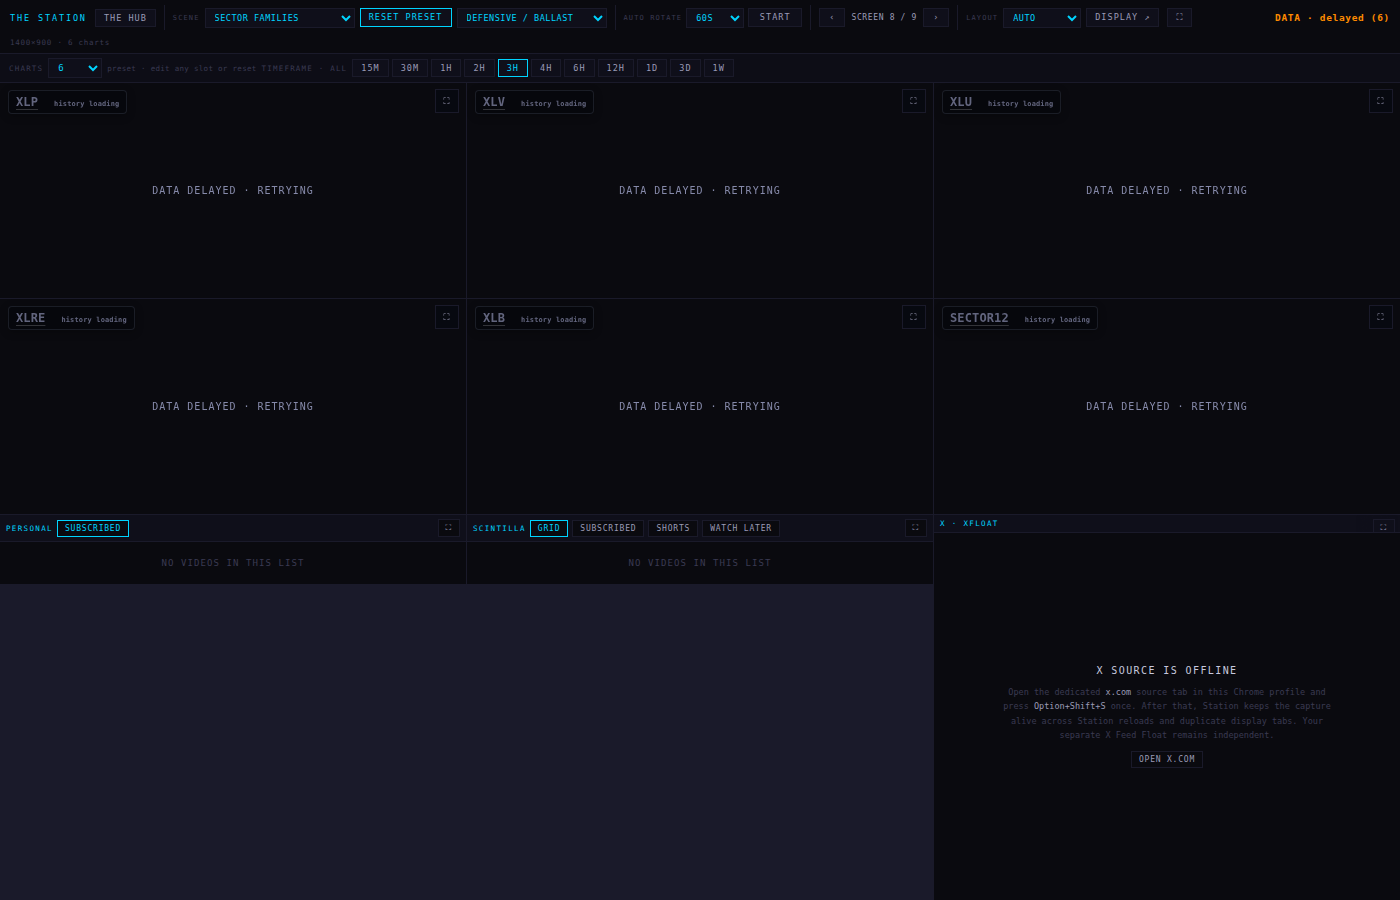
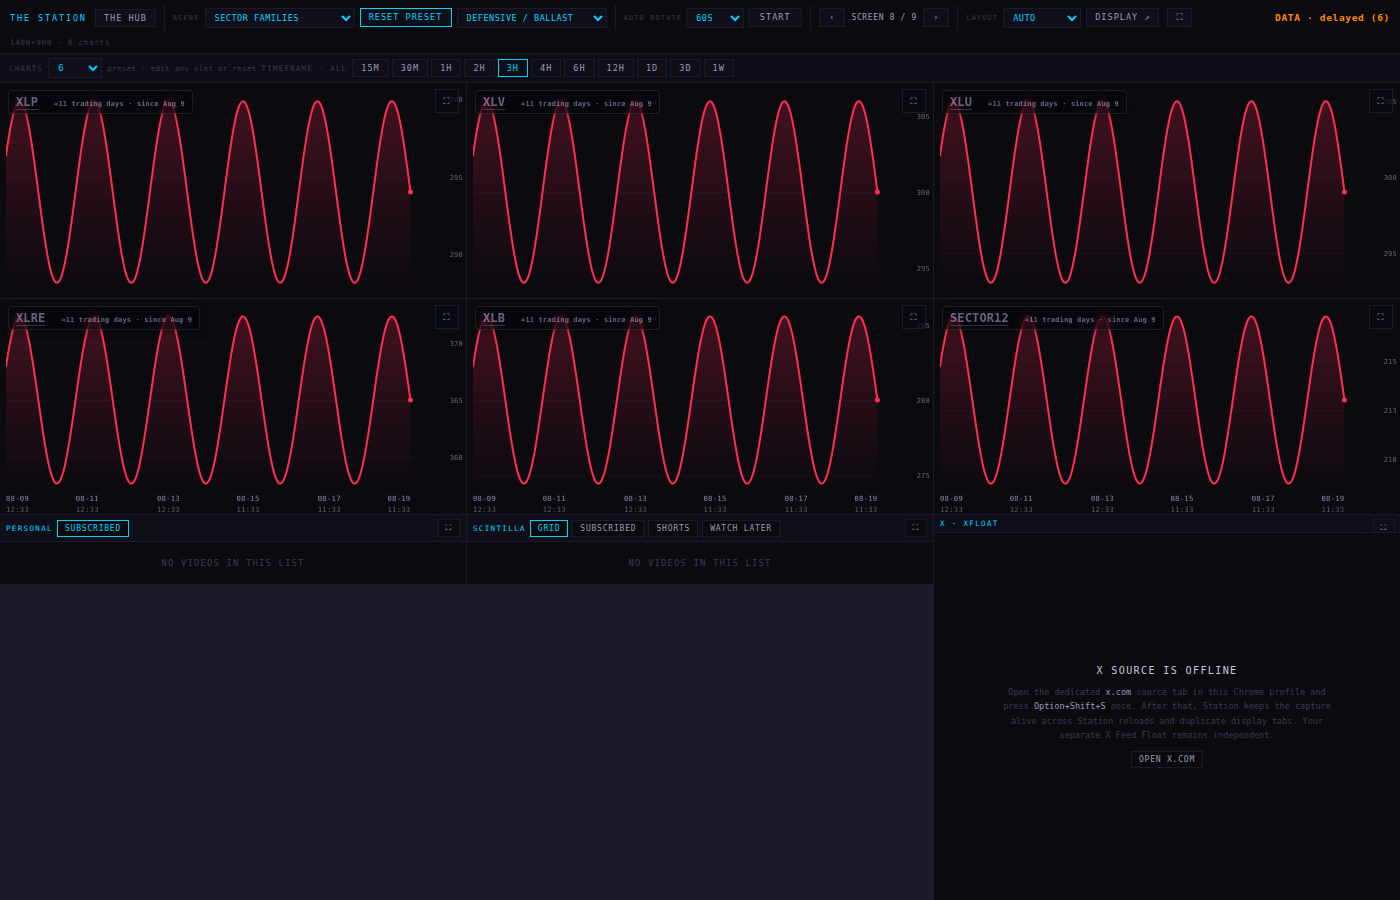
Ticks move the display, repaints never blank, the display equals the provider
The remaining in-repo items of the runtime defect cluster, proven in a
real Chromium with a dynamic quote override on top of the rig fixtures:

PROVIDER-VS-DISPLAY. The chart's day change equals the exact arithmetic
of the quote the provider served - 0.29% for NVDA at 347/346, 9.83%
after a tick to 380; the deck pane likewise (0.33% then 16.94%). No
displayed number differs from the provider's own numbers.

TICKS. A changed provider quote reaches the standalone chart within one
10s poll, and a deck pane within one 10s pump heartbeat through the
authority shim - the path the heartbeat fix (d544db5) keeps honest.

REPAINT. Through a cold 1W range switch, twenty continuous canvas
samples show zero blank frames: the previous paint stands until the
next one is ready.

And the deck header's HEALTHY state - LIVE, all panes ready and stamped
- is painted and screenshotted in a real browser: the exact state that
threw "ReferenceError: delayed is not defined" before 06e4a0a.

CLOSED-LABEL DISPOSITION, recorded in the receipts: no market-session
CLOSED label exists anywhere in this repository (searched all served
HTML/JS; the only "closed" matches are WebRTC connection states and
prose). The filed "CLOSED despite live feed" defect lives in the
separate scintilla-hub deploy, which this branch's standing locks forbid
editing - kept visible as a cross-repo defect in the handoff, not
claimed here.

Fixtures grew SPY/QQQ/IWM/RSP as provider-owned symbols plus an
[…]

diff --git a/browser-proof/receipts/RECEIPTS.md b/browser-proof/receipts/RECEIPTS.md
@@ -36,3 +36,39 @@ Command: `PW_MODULE_DIR=… node browser-proof/proofs/family-scene.mjs` (asserts
 - The choice survives leaving and re-entering the scene (session memory).
 - SECTOR FAMILIES' **DEFENSIVE** basket is reachable the same way: browser-proof/receipts/family-DEFENSIVE-declared-rows.png
 - Zero page errors across the flow.
+
+---
+
+## 2026-08-19T11:33:10Z — ticks, repaint and provider-vs-display, browser-verified; CLOSED-label disposition
+
+Command: `PW_MODULE_DIR=… node browser-proof/proofs/tick-repaint.mjs` (asserts inline)
+
+- **Provider-vs-display**: the chart's day change equals the exact quote the provider served — 0.29% for NVDA 347/346, then 9.83% after a tick to 380; the deck pane likewise (0.33% → 16.94%). No display number differs from the provider's arithmetic.
+- **Ticks**: the standalone chart takes a changed provider quote within one 10s poll (browser-proof/receipts/tick-chart-updates-from-provider.png); a deck pane takes it within one 10s pump heartbeat through the authority shim (browser-proof/receipts/tick-deck-pane-updates-from-provider.png).
+- **Repaint**: through a cold 1W range switch, 20 continuous canvas samples — zero blank frames; the previous paint stands until the next is ready (browser-proof/receipts/repaint-1W-no-blank.png).
+- **Deck healthy state**: the header paints **LIVE** with all panes ready and stamped (browser-proof/receipts/deck-header-LIVE-healthy-state.png) — the state that threw `ReferenceError: delayed is not defined` before `06e4a0a`, now proven in a real browser.
+- **CLOSED labels — disposition**: no market-session CLOSED label exists anywhere in this repository (searched all served HTML/JS, case-insensitive, including "closed", "session", market-hours patterns; the only matches are WebRTC connection states and prose). The filed "CLOSED despite live feed" defect lives in the separate scintilla-hub deploy, which this branch's standing locks forbid editing. Kept visible as a cross-repo defect in the handoff; not representable, therefore not claimed, here.
+
+---
+
+## 2026-08-19T11:33:37Z — filed defects 1–2 FIXED and browser-verified: cohorts replace the favorites rows
+
+Command: `PW_MODULE_DIR=… node browser-proof/proofs/cohort-scene.mjs` (asserts inline; a failed assertion fails the run)
+
+- `/deck/?scene=cohort` lands on **FAV — MU, NBIS, SNDK** (the favorites rows, added order): browser-proof/receipts/cohort-FAV-favorites-rows.png
+- Choosing **AI SOFTWARE** replaces them with **ADBE, CRM, MSFT, NOW, ORCL, PLTR** (page 1 / 2 · 7 members; no favorite present): browser-proof/receipts/cohort-AI_SOFTWARE-replaces-favorites.png
+- Its page 2 pages honestly to **SNOW** alone: browser-proof/receipts/cohort-AI_SOFTWARE-page2.png
+- Choosing **MEGACAP** replaces them with **AAPL, AMZN, GOOGL, META, MSFT, NVDA**: browser-proof/receipts/cohort-MEGACAP-replaces-favorites.png
+- Choosing FAV again restores the favorites rows; zero page errors across the flow.
+
+---
+
+## 2026-08-19T11:33:49Z — filed defect 3 FIXED and browser-verified: AI POWER shows its declared rows
+
+Command: `PW_MODULE_DIR=… node browser-proof/proofs/family-scene.mjs` (asserts inline)
+
+- THEME FAMILIES defaults unchanged (AI COMPUTE: NVDA, TSM, AVGO, ASML, MU, SNDK); the family picker is visible on family scenes and hidden elsewhere.
+- Choosing **AI POWER** renders exactly its declared rows — **OKLO, IREN, CIFR, BE, WULF, USAR**: browser-proof/receipts/family-AI_POWER-declared-rows.png
+- The choice survives leaving and re-entering the scene (session memory).
+- SECTOR FAMILIES' **DEFENSIVE** basket is reachable the same way: browser-proof/receipts/family-DEFENSIVE-declared-rows.png
+- Zero page errors across the flow.

diff --git a/STATION_ROUTES.md b/STATION_ROUTES.md
@@ -125,7 +125,7 @@ not this branch.
 The surfaces above are not the whole deploy. Vercel serves every file in the repository, and
 the pages depend on some of them by absolute path — a missing one is a broken page, which is
 exactly how `/analytics` ran without the authority shim. Regenerated and enforced by
-`tests/station-route-inventory.test.mjs`, the same way as the surfaces: **81 non-HTML files.**
+`tests/station-route-inventory.test.mjs`, the same way as the surfaces: **86 non-HTML files.**
 
 ### Load-bearing page dependencies
 
@@ -146,7 +146,7 @@ are regenerated by the test, so a new file cannot arrive uncounted.
 
 | Class | Count | What |
 | --- | --- | --- |
-| Browser proof rig and receipts | 14 | the real-Chromium verification rig, its fixtures, proof scripts, screenshots and receipt log — see `browser-proof/receipts/RECEIPTS.md` |
+| Browser proof rig and receipts | 19 | the real-Chromium verification rig, its fixtures, proof scripts, screenshots and receipt log — see `browser-proof/receipts/RECEIPTS.md` |
 | Documentation (`*.md`) | 8 | the root docs, receipt and handoff, plus the bridge draft's README — served as text |
 | Test suites (`*.test.mjs`) | 27 | the tests directory and the bridge draft's — served as text; they are the review evidence |
 | X-bridge extension draft | 11 | manifest, five scripts, five icons — Chrome extension files, deployed all the same |
